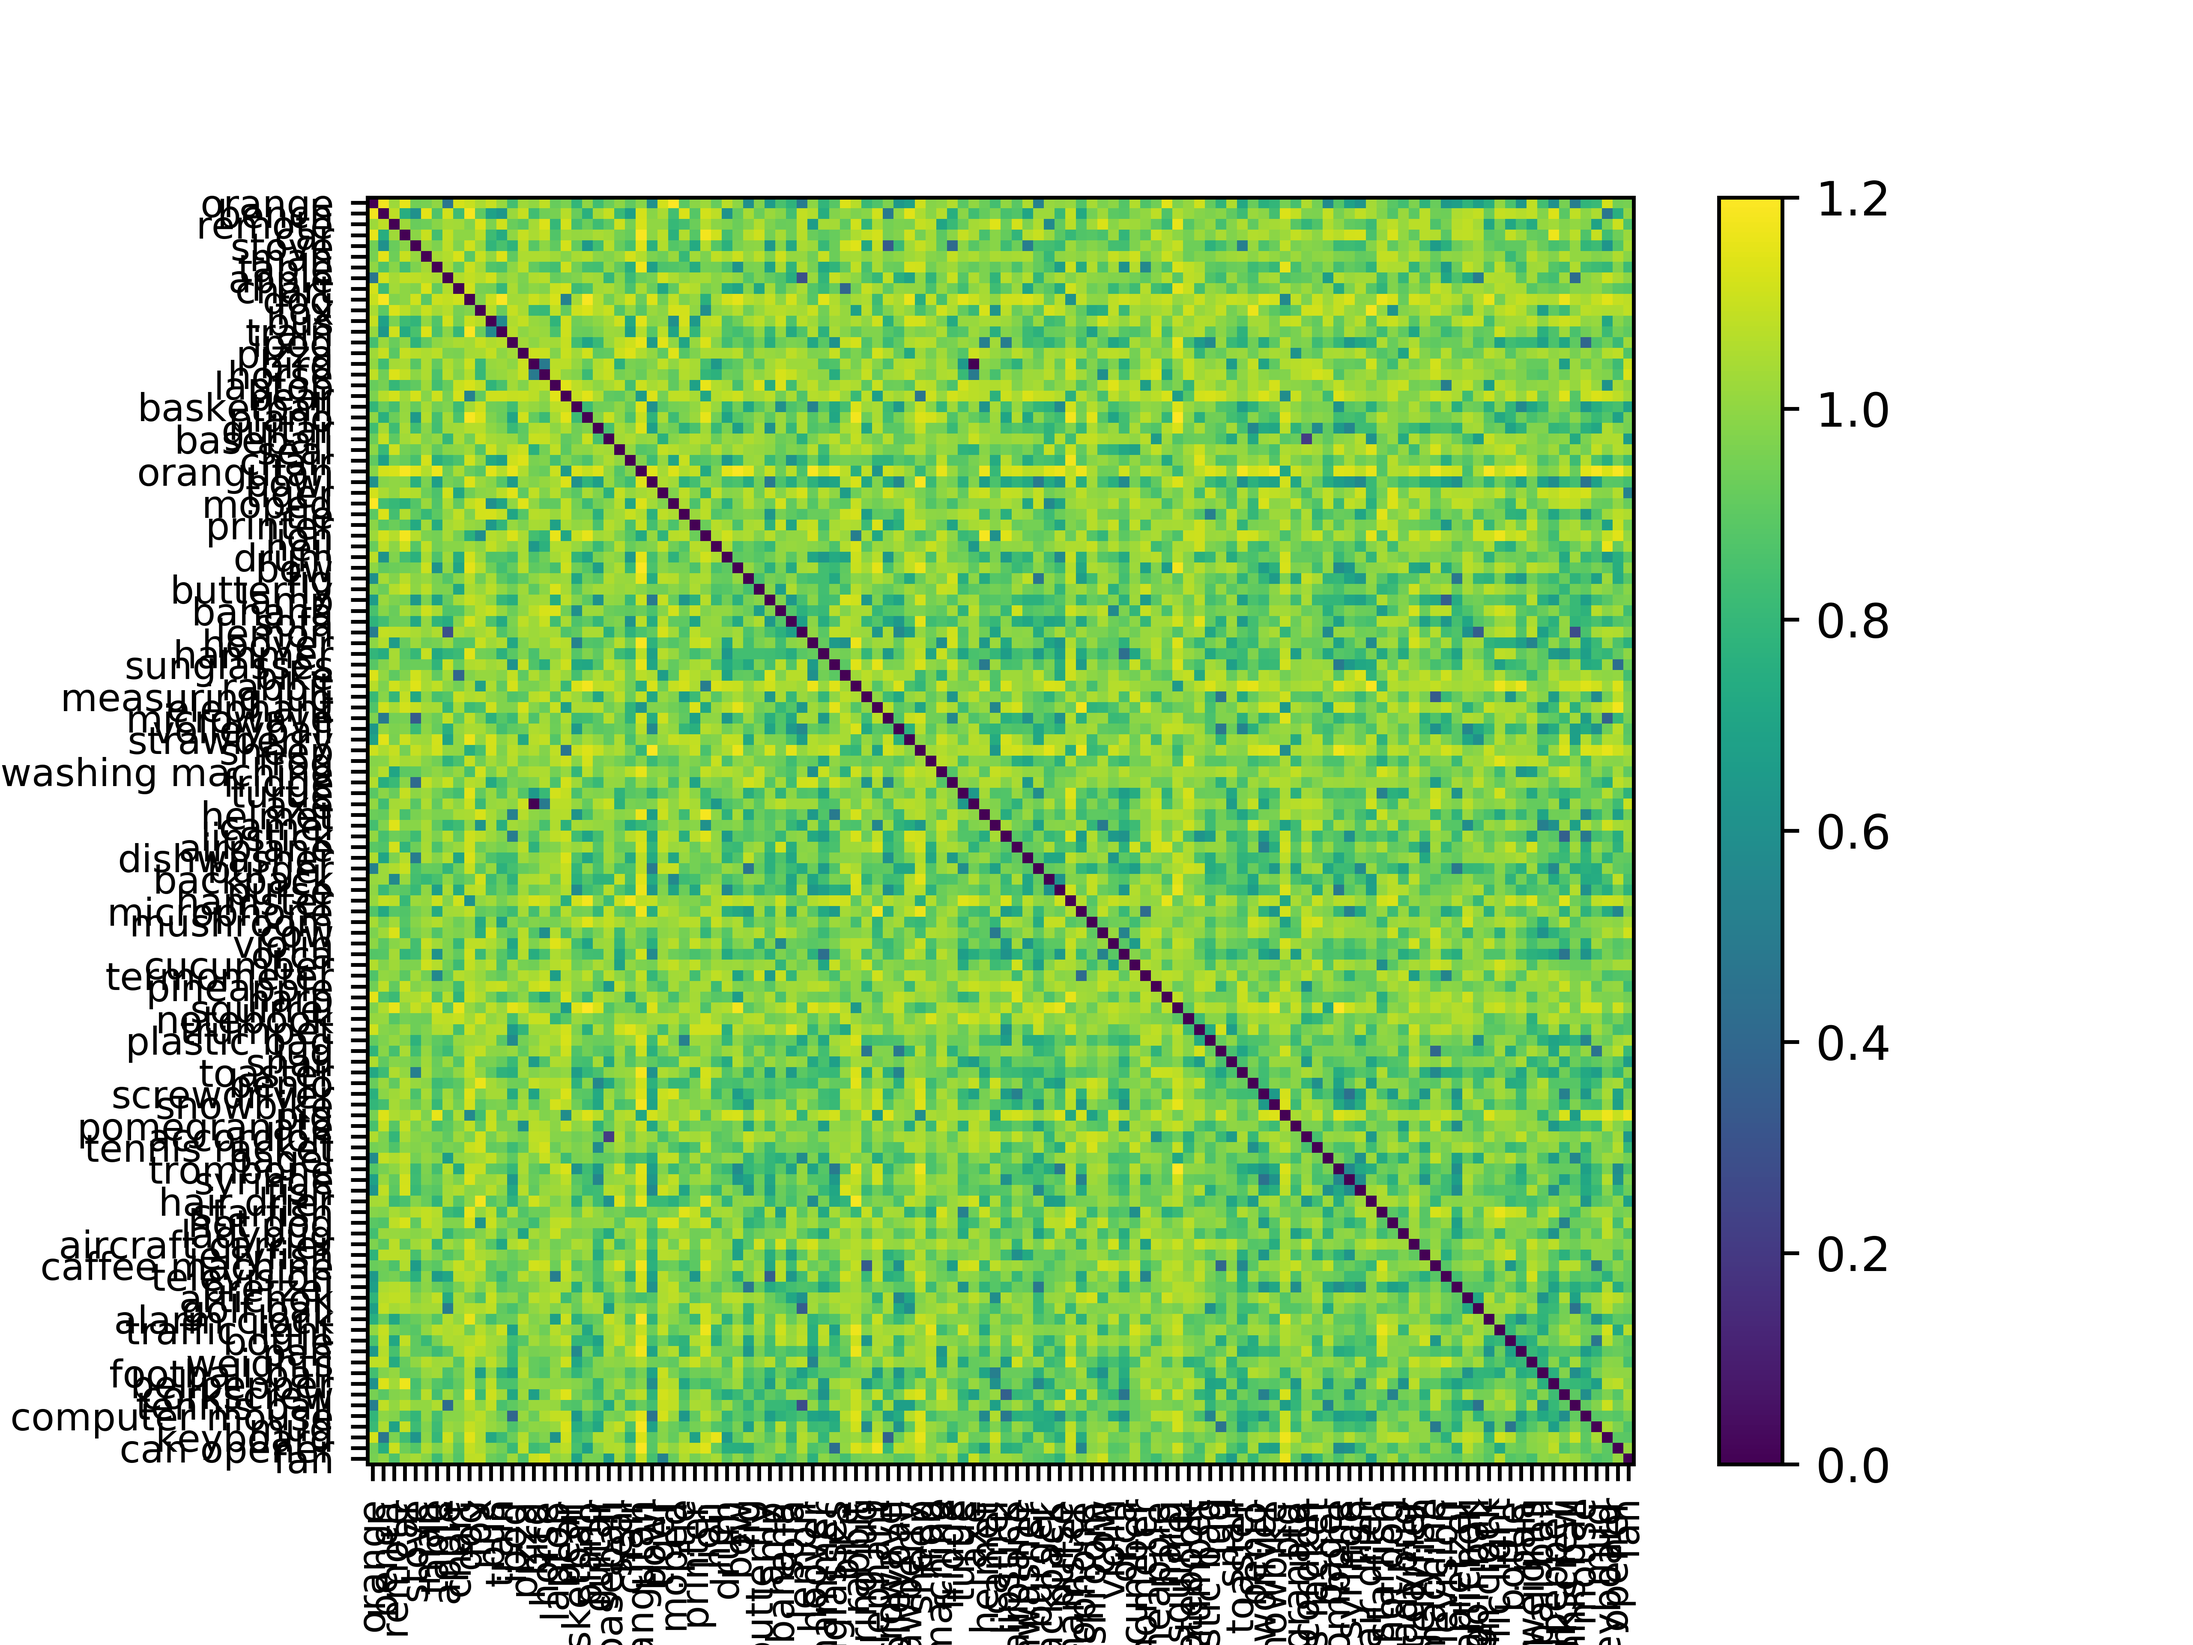
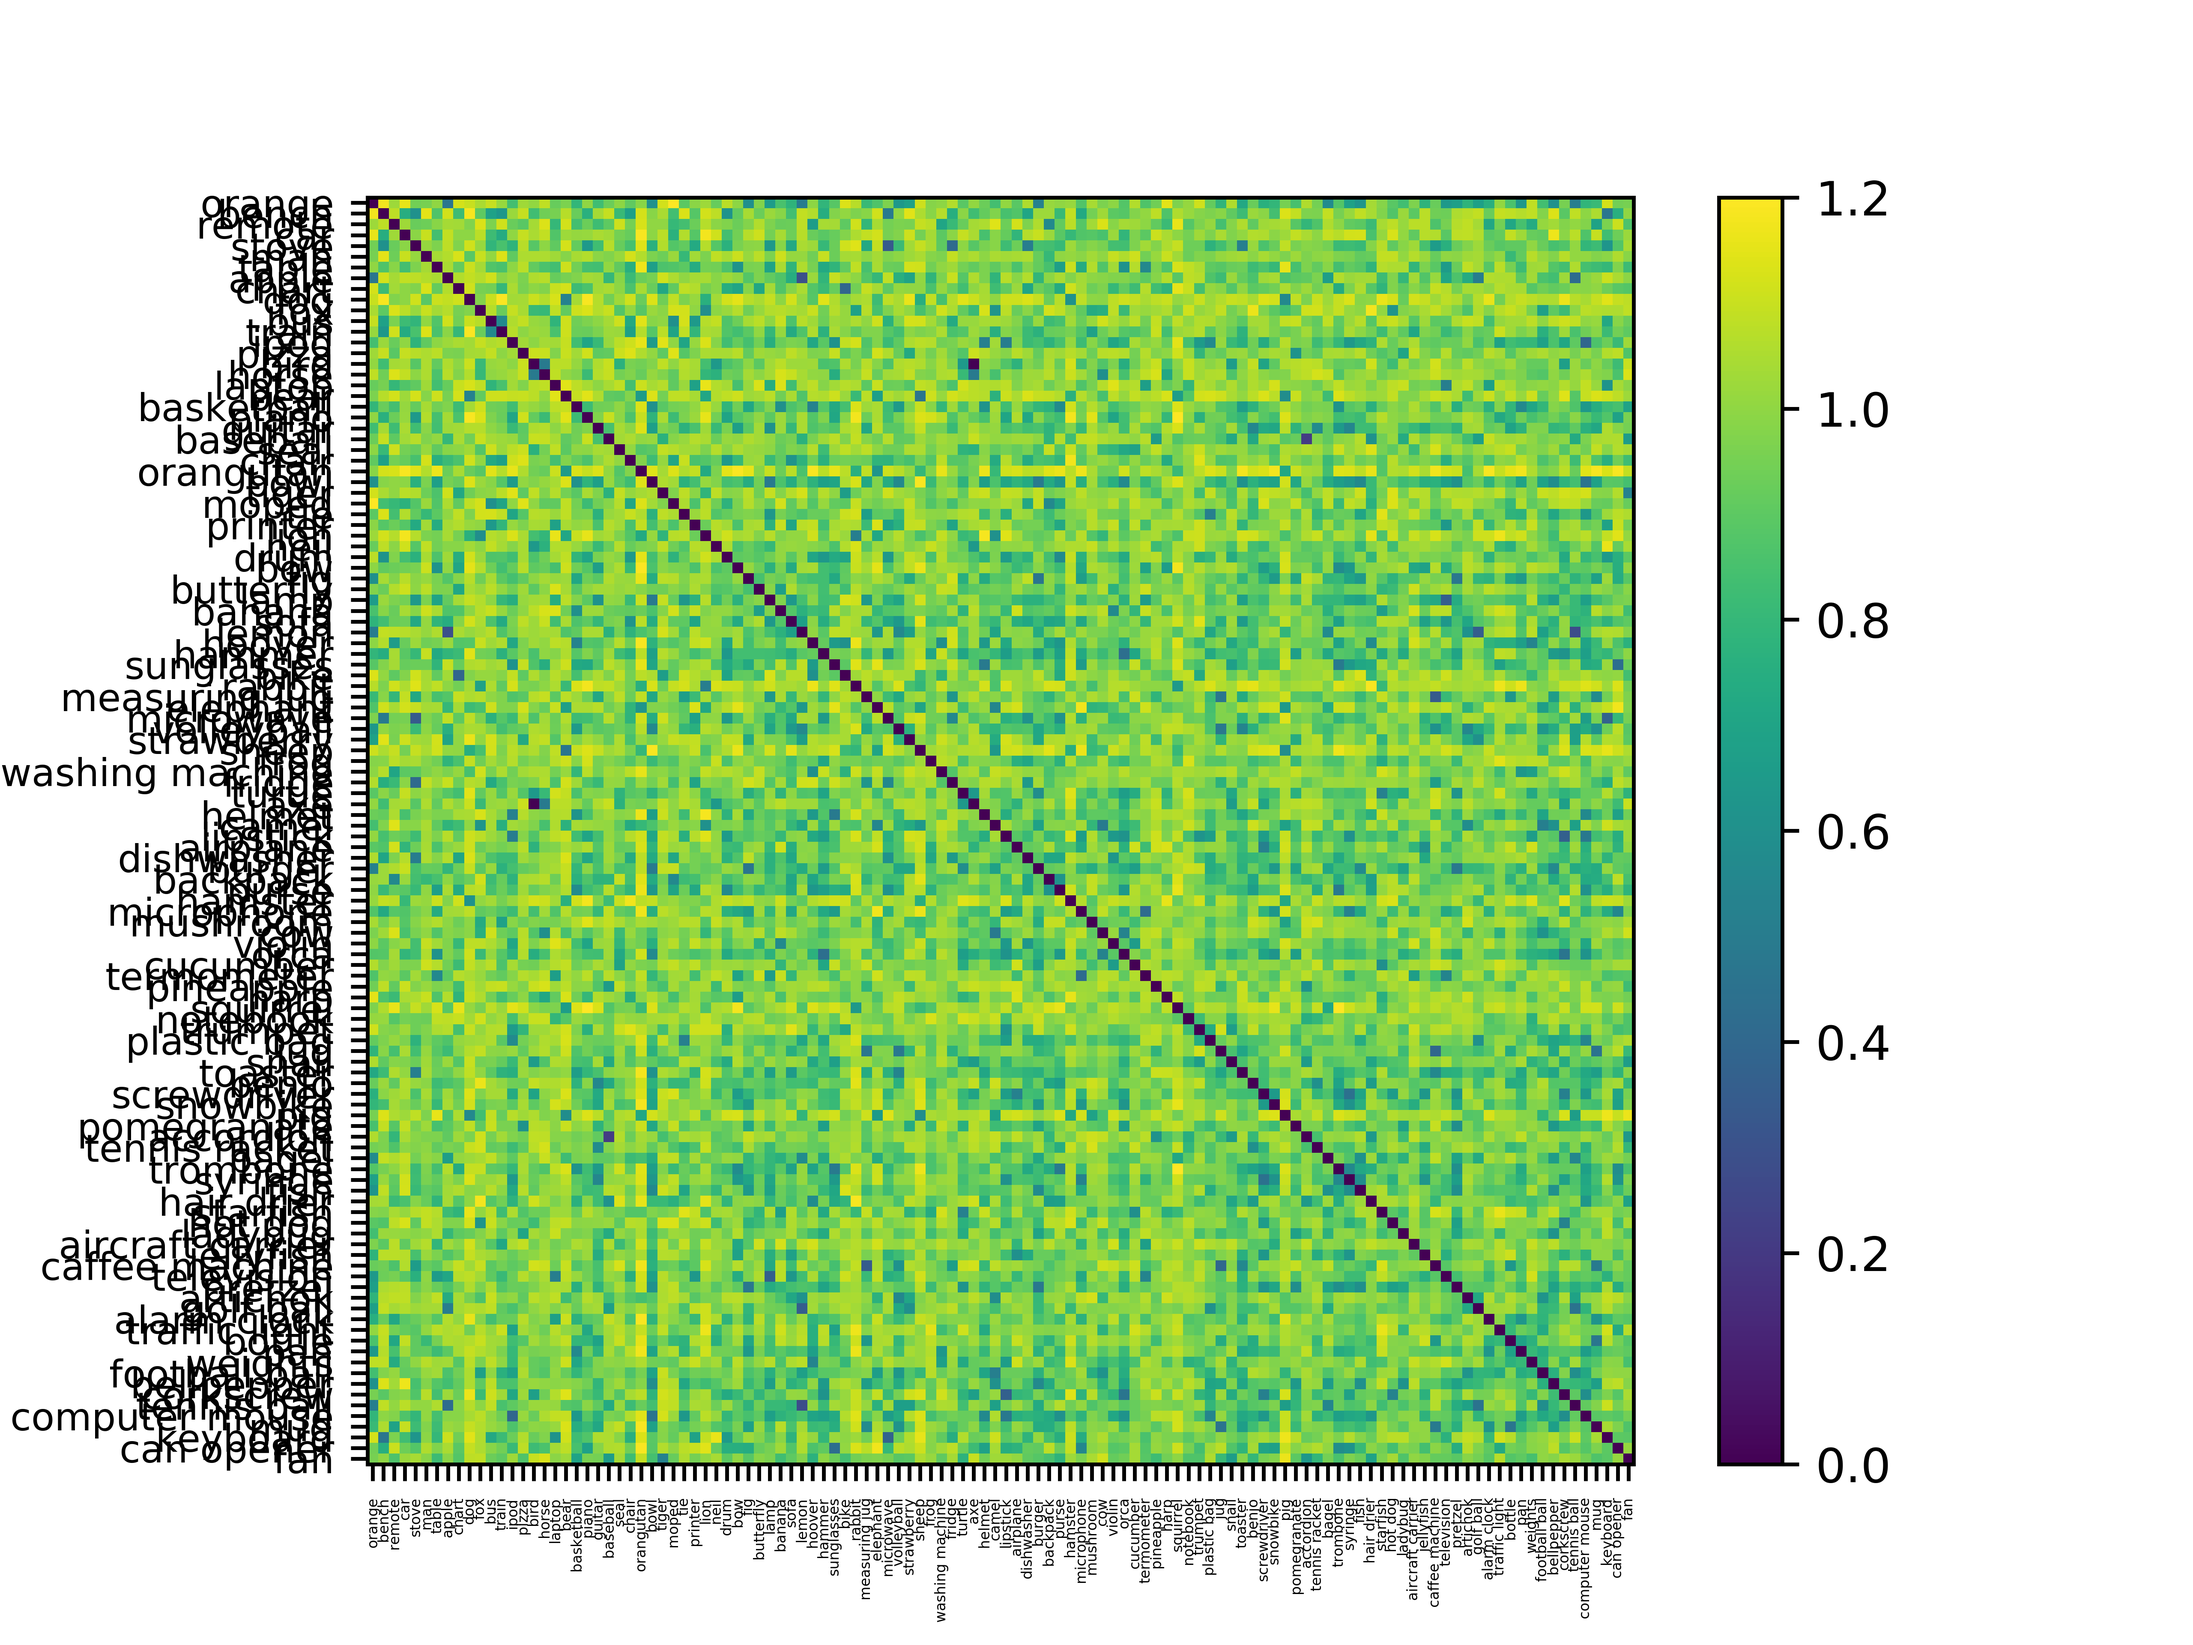
updates to rdm evaluation

Changed region(s): [[0.1562, 0.9062, 0.75, 1.0]]

diff --git a/cichy118_evaluate_dc_fmri.py b/cichy118_evaluate_dc_fmri.py
@@ -81,8 +81,33 @@ def numeric_order(keys,names_dict):
     return orderedNames
 
 
-def main():
-    ## define images names
+def sq(x):
+    return squareform(x, force='tovector', checks=False)
+
+
+#defines the spearman correlation
+def spearman(model_rdm, rdms):
+    model_rdm_sq = sq(model_rdm)
+    return [stats.spearmanr(sq(rdm), model_rdm_sq)[0] for rdm in rdms]
+
+
+#computes spearman correlation (R) and R^2, and ttest for p-value.
+def fmri_rdm(model_rdm, fmri_rdms):
+    corr = spearman(model_rdm, fmri_rdms)
+    corr_squared = np.square(corr)
+    return np.mean(corr_squared), stats.ttest_1samp(corr_squared, 0)[1]
+
+
+def evaluate(submission, targets, target_names=['EVC_RDMs', 'IT_RDMs']):
+    out = {name: fmri_rdm(submission[name], targets[name]) for name in target_names}
+    out['score'] = np.mean([x[0] for x in out.values()])
+    return out
+
+
+
+
+def evaluate_dc_fmri():
+    ## define images names and synsets
     img_names = {'001':'orange','002':'bench','003':'remote','004':'car','005':'stove','006':'man','007':'table','008':'apple','009':'chart','010':'dog','011':'fox','012':'bus','013':'train','014':'ipod',
                     '015':'pizza','016':'bird','017':'horse','018':'laptop','019':'bear','020':'basketball','021':'piano','022':'guitar','023':'baseball','024':'seal','025':'chair','026':'orangutan','027':'bowl',
                     '028':'tiger','029':'moped','030':'tie','031':'printer','032':'lion','033':'neil','034':'drum','035':'bow','036':'fig','037':'butterfly','038':'lamp','039':'banana','040':'sofa',
@@ -150,8 +175,14 @@ def main():
     rdm4 = rdm(layer4_matrix)
     rdm5 = rdm(layer5_matrix)
 
+    ###### load fmri rdms
+    fmri_mat = hdf5storage.loadmat('/home/CUSACKLAB/annatruzzi/cichy2016/neural_net/algonautsChallenge2019/Training_Data/118_Image_Set/target_fmri.mat')
+    EVC = np.mean(fmri_mat['EVC_RDMs'],axis = 0)
+    IT = np.mean(fmri_mat['IT_RDMs'], axis = 0)
 
-    ####### rdm plot
+
+
+    ####### DC plot
     fig=plt.figure()
     ax = fig.add_subplot(111)
     plt.imshow(rdm5,vmin=0,vmax=1.2)
@@ -159,17 +190,11 @@ def main():
     ticks = np.arange(0,118,1)
     ax.set_xticks(ticks)
     ax.set_yticks(ticks)
-    ax.set_xticklabels(orderedNames,rotation = 90, fontsize = 8)
+    ax.set_xticklabels(orderedNames,rotation = 90, fontsize = 3)
     ax.set_yticklabels(orderedNames,fontsize = 8)
     plt.show()
     fig.savefig('rdm5.png', dpi = (800))
     plt.close(fig)
-
-
-    ###### load fmri rdms
-    fmri_mat = hdf5storage.loadmat('/home/CUSACKLAB/annatruzzi/cichy2016/neural_net/algonautsChallenge2019/Training_Data/118_Image_Set/target_fmri.mat')
-    EVC = np.mean(fmri_mat['EVC_RDMs'],axis = 0)
-    IT = np.mean(fmri_mat['IT_RDMs'], axis = 0)
 
     ####### EVC plot
     fig=plt.figure()
@@ -179,7 +204,7 @@ def main():
     ticks = np.arange(0,118,1)
     ax.set_xticks(ticks)
     ax.set_yticks(ticks)
-    ax.set_xticklabels(orderedNames,rotation = 90, fontsize = 8)
+    ax.set_xticklabels(orderedNames,rotation = 90, fontsize = 3)
     ax.set_yticklabels(orderedNames,fontsize = 8)
     plt.show()
     fig.savefig('rdmEVC.png', dpi = (800))
@@ -193,15 +218,24 @@ def main():
     ticks = np.arange(0,118,1)
     ax.set_xticks(ticks)
     ax.set_yticks(ticks)
-    ax.set_xticklabels(orderedNames,rotation = 90, fontsize = 8)
+    ax.set_xticklabels(orderedNames,rotation = 90, fontsize = 3)
     ax.set_yticklabels(orderedNames,fontsize = 8)
     plt.show()
     fig.savefig('rdmIT.png', dpi = (800))
     plt.close(fig)
 
+    out = evaluate(submit, target)
+    evc_percentNC = ((out['EVC_RDMs'][0])/nc118_EVC_R2)*100.      #evc percent of noise ceiling
+    it_percentNC = ((out['IT_RDMs'][0])/nc118_IT_R2)*100.         #it percent of noise ceiling
+    score_percentNC = ((out['score'])/nc118_avg_R2)*100.      #avg (score) percent of noise ceiling
+    print('=' * 20)
+    print('fMRI results:')
+    print('Squared correlation of model to EVC (R**2): {}'.format(out['EVC_RDMs'][0]), ' Percentage of noise ceiling: {}'.format(evc_percentNC),'%', '  and significance: {}'.format(out['EVC_RDMs'][1]))
+    print('Squared correlation of model to IT (R**2): {}'.format(out['IT_RDMs'][0]), '  Percentage of noise ceiling: {}'.format(it_percentNC),'%', '  and significance: {}'.format(out['IT_RDMs'][1]))
+    print('SCORE (average of the two correlations): {}'.format(out['score']), '  Percentage of noise ceiling: {}'.format(score_percentNC),'%') 
 
 
 
 if __name__ == '__main__':
-    main()
+    evaluate_dc_fmri()
 
